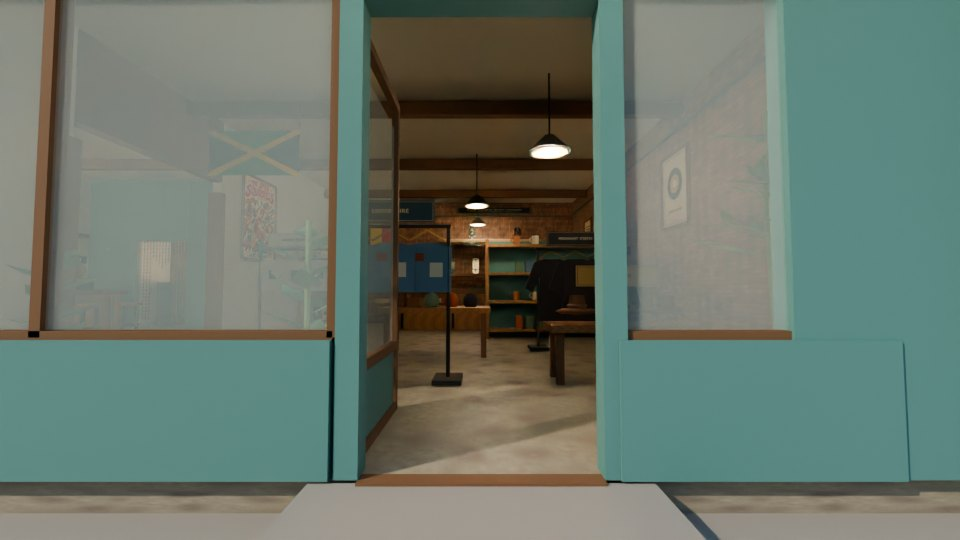
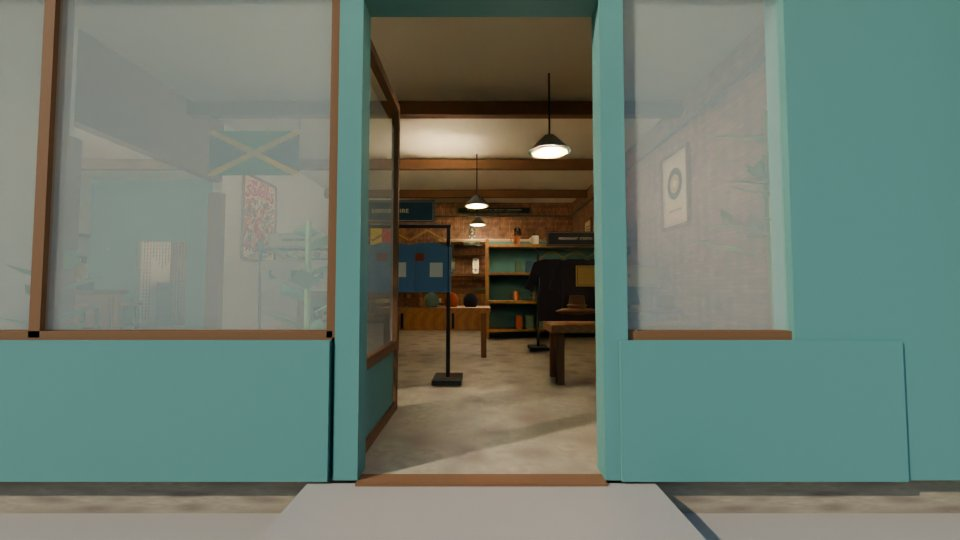
Neighbourhood Shop: the sign on his window header band, the pictures again, the owner's check list
- The sign board moves from the fascia (behind his gutter from the street) to his window header band, under
  the eave, its letters glowing; the gooseneck lamps go with the fascia position. Spec: no part of his roof in
  front of the board hangs below its top.
- Twelve pictures (a new one of the sign from the sidewalk) and the contact sheet; the views note that the
  offline renders bounce light the engine does not.
- docs/owner/NEIGHBOURHOOD_SHOP_CHECK.md: where it is, how to get there, what to look at, what of his
  delivery is not in and why. HANDOFF section 4c. The town map redrawn with the shop (number 17).

Claude-Session: https://claude.ai/code/session_01M7kvU21XVNfCAcdQZ7o6vh

diff --git a/docs/owner/NEIGHBOURHOOD_SHOP_CHECK.md b/docs/owner/NEIGHBOURHOOD_SHOP_CHECK.md
@@ -1,0 +1,46 @@
+# The Neighbourhood Shop: what to look at (10 minutes)
+
+Your second store is in the town. Your interior and your gable roof are used as you made them; I built the outside walls, the shopfront sign, the steps and the lights around them. Nothing in it is sold, sat on or worn yet: it is to look at and walk through. Everything below has been tested without a screen. Nobody has seen it inside Roblox yet, so this list is the part only you can judge.
+
+## Where it is
+On **Main Street** (the wide boulevard with the trolley line), on its **north side, at the old-town end**, about 90 studs from the trolley stop. It faces south across the street, so its front gets the sun. In the world it stands at x 686, z 70; it is number 17 on the town map (`docs/owner/files/town_map.png`).
+
+## How to get there
+1. Pick **Townsperson** (or Police) from the menu. Only people go inside; squirrels can run over the roof.
+2. Walk to Main Street and along its north sidewalk toward the old town. Look for a teal shopfront with big windows under a grey gable roof with a chimney, and **THE NEIGHBOURHOOD SHOP** in cream letters on a dark board over the windows.
+3. Walk up the three steps and in through the open door (on the right of the shopfront).
+
+## Please check
+| # | What to look at | What you should see |
+|---|---|---|
+| 1 | From across the street | The shopfront, the sign readable from the far sidewalk, your roof sitting on brick walls with no gap. The letters glow, so they read in the shade and at night |
+| 2 | The door | Three steps up from the sidewalk, the open glass door swung inside to the left, nothing to trip on |
+| 3 | The retail room | The checkout at the back, the skateboard wall, the racks and the display table. You walk round the tables, racks, plant pots and the open door, not through them |
+| 4 | The cafe | Through the opening in the divider on the left: the counter, its five stools, the blank menus, the window table and chairs |
+| 5 | The office | At the back of the cafe, through the bead curtain (you walk through the beads): the desk, the lamp, the filing cabinet |
+| 6 | The camera | Stand in the office, and next to the wall between the cafe and the shop, and turn the camera round. It should stop at the walls and always show your person, never end up in the next room |
+| 7 | The lamps | The six pendant shades glow; the rooms are lit softly, the ceiling is not black at night. Is it too dark or too bright inside, by day and at night? |
+| 8 | The textures | The brick, the wooden and concrete floors, the posters, menus, flags and skateboards should show their pictures. If any show as flat colour, tell me which |
+| 9 | The glass | The windows and the door glass are see-through |
+| 10 | The roof | A squirrel can run up and along the roof slopes and the ridge without falling through at the ends |
+
+## Two choices that are yours (the defaults stay unless you say)
+- **The spelling of the sign.** Your preview picture says "THE NEIGHBORHOOD SHOP"; the brief says "THE NEIGHBOURHOOD SHOP", which I used. One word to change if you want yours.
+- **The roof's size.** Your 14 m roof covers a 10 m span; the shop is 12 m deep. I stretched it a quarter across (and in height, so its pitch is yours) and 4% along the ridge. The other way is a smaller roof with the walls showing above the eaves.
+- (I took off a second name board I had stood on the roof: it was not your design and looked like a stray plank from along the street. The sign now hangs on the band over the windows, below the eave, where it can be read from across the street, and its letters glow.)
+
+## What of your delivery is not in, and why
+- **The exposed rafter bay** (roof kit 01): the shop has your ceiling and beams, so rafters would be hidden. The bowling alley's rafters and roof are the alley-roof work, not this shop.
+- **The ridge and eave perches, the roof route graph and its Luau data** (roof kit 03 and Specs): no squirrel route reaches this roof yet, and the route numbers are not in the town's list. The roof itself can be walked on.
+- **The separate gutter and fascia pieces** (roof kit 05): the full roof already has them.
+- **The roof kit's eave-perch collider boxes**: only the two slopes and the ridge are used (the slopes are as wide as the roof).
+- **The "flair only" file, the separate skateboards and the jacket**: they are already inside the full shop; loading them again would show them twice.
+- **The three sewer pieces**: they belong to the sewer shortcuts.
+- **The Luau prototype kit**: reference only, as your addendum says.
+- **The roughness and metal maps**: the way the shop is uploaded carries the colour and the bump maps but not those; Roblox uses its default shine.
+- **Nothing to buy, sit on or wear**: the shop is art for now, as your pack says. The wallet and shops come later.
+
+## Known gaps
+- The townspeople the computer runs do not go inside (their height comes from the ground, not from floors); they walk round the building. Only players walk in.
+- The side and back walls are plain brick with no windows or back door (your interior has none there).
+- I could not open it in Roblox from here (the permission to run the game in the cloud is still off), so the first look in Studio is the real test of the textures, the glass and the lamps. The pictures in `docs/renders/neighbourhood_shop/` are drawn offline: their lighting bounces off walls, which Roblox's lighting does not, so the real rooms will be somewhat darker in the corners.

diff --git a/docs/reports/compile_report.md b/docs/reports/compile_report.md
@@ -1,6 +1,6 @@
 # Compile report: authored data -> `generated/`
 
-Generated 2026-11-13T21:25:03.462636423+00:00 by `tools/compile` (Lune lune 0.11.1). Command: `lune run tools/compile/main.luau compile` (see `tools/compile/README.md`). Staleness gate: `lune run tools/compile/main.luau check`.
+Generated 2026-11-13T21:46:05.233537814+00:00 by `tools/compile` (Lune lune 0.11.1). Command: `lune run tools/compile/main.luau compile` (see `tools/compile/README.md`). Staleness gate: `lune run tools/compile/main.luau check`.
 
 ## Inputs
 
@@ -137,32 +137,32 @@ Distinct lot types: 74 (ambient_npcs, ambulance_bay, atrium, backyard_doghouse, 
 
 | module | records | bytes | require (ms, Lune) | source |
 |---|---|---|---|---|
-| Lots | 243 | 190158 | 21.7 | data/authored/town/lots/*.json |
-| Roads | 116 | 41940 | 1.9 | data/authored/town/roads.json |
-| Lanes | 25 | 18253 | 1.4 | data/authored/town/lanes.json |
-| Cast | 87 | 71807 | 4.0 | data/authored/cast/cast.json |
-| RoutesCatalog | 60 | 41830 | 7.4 | data/authored/routes/catalog.json |
-| Wildlife | 95 | 61201 | 4.1 | data/authored/wildlife/*.json |
-| Routes_01 | 391 | 204760 | 20.8 | data/harvest/routes.json (chunk 1 of 4; pinned to v5.4 HTML SHA-256 fc48b387e51ce3a454898d58d1cb3dda891b22ffad7110cdcd0ade6c777a6227) |
-| Routes_02 | 447 | 204694 | 17.0 | data/harvest/routes.json (chunk 2 of 4; pinned to v5.4 HTML SHA-256 fc48b387e51ce3a454898d58d1cb3dda891b22ffad7110cdcd0ade6c777a6227) |
-| Routes_03 | 413 | 205046 | 16.7 | data/harvest/routes.json (chunk 3 of 4; pinned to v5.4 HTML SHA-256 fc48b387e51ce3a454898d58d1cb3dda891b22ffad7110cdcd0ade6c777a6227) |
-| Routes_04 | 81 | 36112 | 2.0 | data/harvest/routes.json (chunk 4 of 4; pinned to v5.4 HTML SHA-256 fc48b387e51ce3a454898d58d1cb3dda891b22ffad7110cdcd0ade6c777a6227) |
-| Forks | 95 | 193316 | 17.3 | data/harvest/forks.json (canopyForks; pinned to v5.4 HTML SHA-256 fc48b387e51ce3a454898d58d1cb3dda891b22ffad7110cdcd0ade6c777a6227) |
+| Lots | 243 | 190158 | 6.1 | data/authored/town/lots/*.json |
+| Roads | 116 | 41940 | 1.6 | data/authored/town/roads.json |
+| Lanes | 25 | 18253 | 1.1 | data/authored/town/lanes.json |
+| Cast | 87 | 71807 | 1.7 | data/authored/cast/cast.json |
+| RoutesCatalog | 60 | 41830 | 1.2 | data/authored/routes/catalog.json |
+| Wildlife | 95 | 61201 | 4.0 | data/authored/wildlife/*.json |
+| Routes_01 | 391 | 204760 | 9.7 | data/harvest/routes.json (chunk 1 of 4; pinned to v5.4 HTML SHA-256 fc48b387e51ce3a454898d58d1cb3dda891b22ffad7110cdcd0ade6c777a6227) |
+| Routes_02 | 447 | 204694 | 7.8 | data/harvest/routes.json (chunk 2 of 4; pinned to v5.4 HTML SHA-256 fc48b387e51ce3a454898d58d1cb3dda891b22ffad7110cdcd0ade6c777a6227) |
+| Routes_03 | 413 | 205046 | 8.5 | data/harvest/routes.json (chunk 3 of 4; pinned to v5.4 HTML SHA-256 fc48b387e51ce3a454898d58d1cb3dda891b22ffad7110cdcd0ade6c777a6227) |
+| Routes_04 | 81 | 36112 | 1.9 | data/harvest/routes.json (chunk 4 of 4; pinned to v5.4 HTML SHA-256 fc48b387e51ce3a454898d58d1cb3dda891b22ffad7110cdcd0ade6c777a6227) |
+| Forks | 95 | 193316 | 8.1 | data/harvest/forks.json (canopyForks; pinned to v5.4 HTML SHA-256 fc48b387e51ce3a454898d58d1cb3dda891b22ffad7110cdcd0ade6c777a6227) |
 | LotTypes | 0 | 23026 | 1.5 | data/authored/lot_types.json |
 | Interiors | 0 | 11610 | 1.0 | data/interiors/*.json |
 | Buildings | 0 | 6132 | 0.7 | data/buildings/*.json |
 | HarvestPatches | 0 | 12240 | 0.5 | data/harvest_patches.json |
 | Population | 0 | 3184 | 0.5 | data/population.json |
 | Hollows | 0 | 6284 | 0.7 | data/hollows.json |
-| TerrainExtensions | 0 | 2379 | 0.5 | data/terrain_extensions.json |
-| Lighting | 0 | 1163 | 3.8 | data/authored/town/lighting.json |
-| Attractions | 9 | 34262 | 1.8 | data/attractions.json |
-| Expansion | 47 | 140937 | 16.0 | data/expansion.json |
-| TreeArt | 95 | 176791 | 15.4 | data/art/tree_meshes.json |
+| TerrainExtensions | 0 | 2379 | 0.4 | data/terrain_extensions.json |
+| Lighting | 0 | 1163 | 0.4 | data/authored/town/lighting.json |
+| Attractions | 9 | 34262 | 1.9 | data/attractions.json |
+| Expansion | 47 | 140939 | 8.9 | data/expansion.json |
+| TreeArt | 95 | 176791 | 7.4 | data/art/tree_meshes.json |
 | ShopArt | 445 | 68298 | 4.7 | data/art/neighbourhood_shop.json |
 | Index | 1 | 1774 | 0.5 | tools/compile (module list, counts and the harvest pin) |
 
-Total 24 files, 1757197 bytes; largest Routes_03 (205046 bytes, 16.7 ms to require under Lune). Routes are chunked at about 200 KB per module; `Index.luau` lists the chunks and counts.
+Total 24 files, 1757199 bytes; largest Routes_03 (205046 bytes, 8.5 ms to require under Lune). Routes are chunked at about 200 KB per module; `Index.luau` lists the chunks and counts.
 
 ## Notes for the lead
 

diff --git a/docs/HANDOFF.md b/docs/HANDOFF.md
@@ -116,6 +116,13 @@ Owner: PedagogyGame (Ben). Project: Spicy Rodents Roblox rebuild. Last updated 2
 - **Pictures.** `docs/renders/alley18/`: `00_plan.png` is the labelled floor plan (`lune run tools/review/alley_plan.luau; python3 -I tools/review/alley_plan.py`); the eye-level views are `tools/review/views_alley.json` through `tools/review/render.py`. The offline renderer does not draw the game's lamps, so interiors look darker than they will be.
 - **Not done:** the shops' fittings, the staff, the counters' prompts, sound; the street and the walk to the door are still data only; the backstage's meshes have not arrived (its true outline is in the package's `Data/layout.json`); nobody has seen the inside on a screen.
 
+## 4c. The owner's Neighbourhood Shop (branch `feat/neighbourhood-shop`, 2026-11-13; addendum D12)
+- **Where and how big:** `f1_neighbourhood_shop` in `data/expansion.json` (`built`: it is a collider box to World/Colliders and FootPath), Main Street's north sidewalk at (686, 70.6), facing -Z, 3 studs to the metre. Owner check list: `docs/owner/NEIGHBOURHOOD_SHOP_CHECK.md`.
+- **Art:** his GLBs -> FBX in studs (`tools/blender/neighbourhood_shop/export_shop.py`) -> uploaded Models (`publish.py`; a fresh clone reuses the committed ids) -> `data/art/neighbourhood_shop.json` -> `generated/ShopArt`. `Server/Assets/ShopArt.start` (one call in Boot/Game) carves the terrain inside and loads both Models after boot: visual only, glass see-through, his lamp diffusers Neon, his 135 plain boxes drawn as Parts, a textured mesh without its maps painted its map's mean colour. It warns when the shop's bake is missing.
+- **Shell:** `tools/bake/neighbourhood_shop.luau` -> `build/Expansion_NeighbourhoodShop.rbxm` -> `Workspace.Expansion.NeighbourhoodShop` (its own slot; F1..F4 are each one family's single bake). Invisible colliders from his metadata plus boxes round the floor-standing furniture; opaque `Occluders` just inside his walls so the default camera and CameraRig stop at them; his roof decks as slope colliders. CI bakes it; the owner place test requires it.
+- **Tests and pictures:** `lune run tests/run.luau neighbourhood world_footpath` (place, budget, colliders, a 2.2-stud body reaching every room, the camera's occluders, the roof, the loader, the boot call). `docs/renders/neighbourhood_shop/views.json` lists the commands for the pictures (the uploaded FBX files are drawn by `tools/review/art_render.py`).
+- **Not done:** never seen in the engine (Luau Execution is still off); computer-run people do not go in; nothing is sold or sat on yet (art only).
+
 ## 5. How to resume (ephemeral container)
 1. `bash docs/ENVIRONMENT_SETUP.sh` (~10 min cold, verified), then `bash tools/ci.sh` must be green.
 2. Cloud loop:
